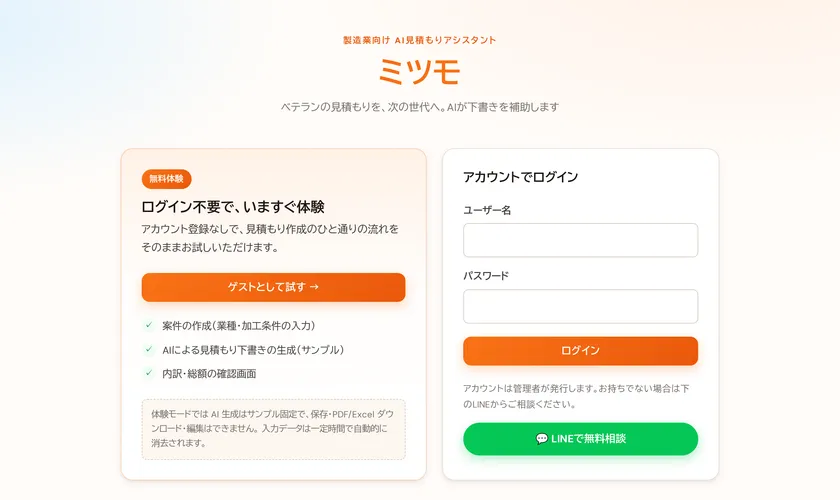
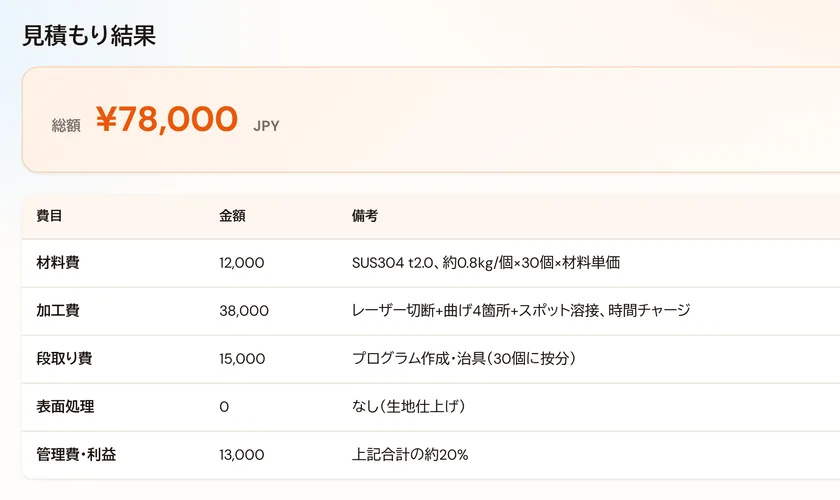
実績: ミツモのキャプチャをログイン画面→見積もり結果画面に差替
ゲストモードで擬似生成した見積もり結果（総額¥78,000・費目内訳）の
画面をキャプチャし、製品の価値が一目で伝わる実画面に変更。

diff --git a/index.html b/index.html
@@ -170,7 +170,7 @@
         <div class="tilt-card scroll-animate" data-animation="fade-up" data-delay="0" data-cs-status="ready">
           <div class="h-full rounded-2xl overflow-hidden bg-light-card border border-light-border hover:border-accent/30 hover:shadow-xl hover:shadow-accent/5 transition-all duration-500 group flex flex-col">
             <div class="relative h-48 lg:h-56 overflow-hidden bg-light-border/30">
-              <img src="images/portfolio/mitsumo.webp" alt="製造業向けAI見積もりアシスタント「ミツモ」のサービス画面" loading="lazy" decoding="async" width="840" height="500" class="w-full h-full object-cover object-top group-hover:scale-105 transition-transform duration-500" />
+              <img src="images/portfolio/mitsumo.webp" alt="製造業向けAI見積もりアシスタント「ミツモ」が生成した見積もり結果画面（総額・内訳）" loading="lazy" decoding="async" width="840" height="500" class="w-full h-full object-cover object-top group-hover:scale-105 transition-transform duration-500" />
             </div>
             <div class="p-6 flex-1 flex flex-col">
               <h3 class="text-lg font-bold mb-2 group-hover:text-accent transition-colors">製造業向け AI見積もりアシスタント「ミツモ」</h3>
